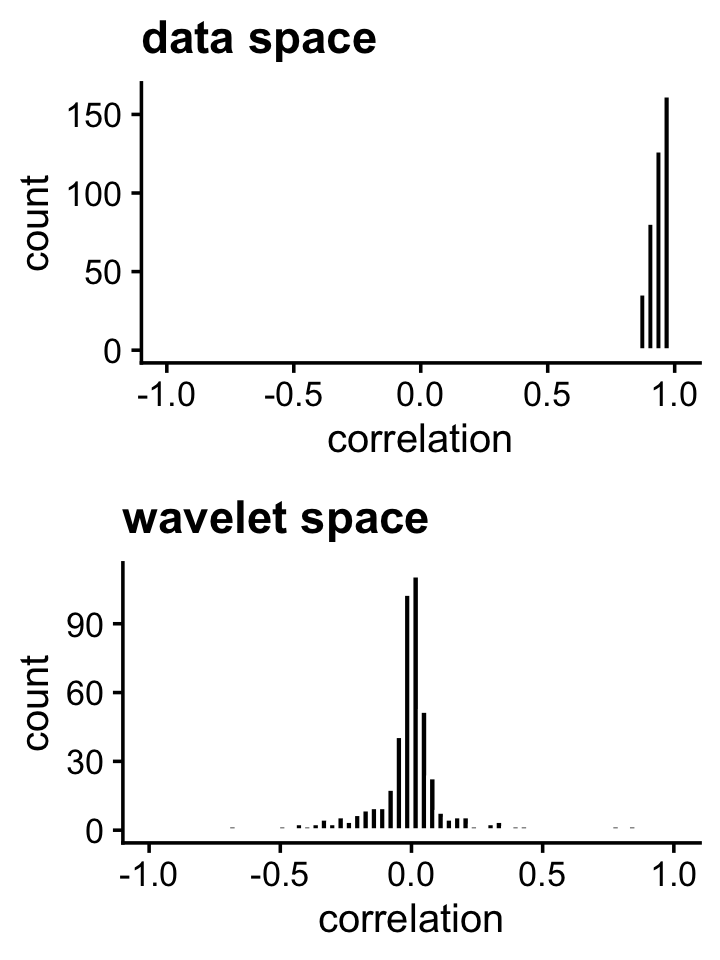
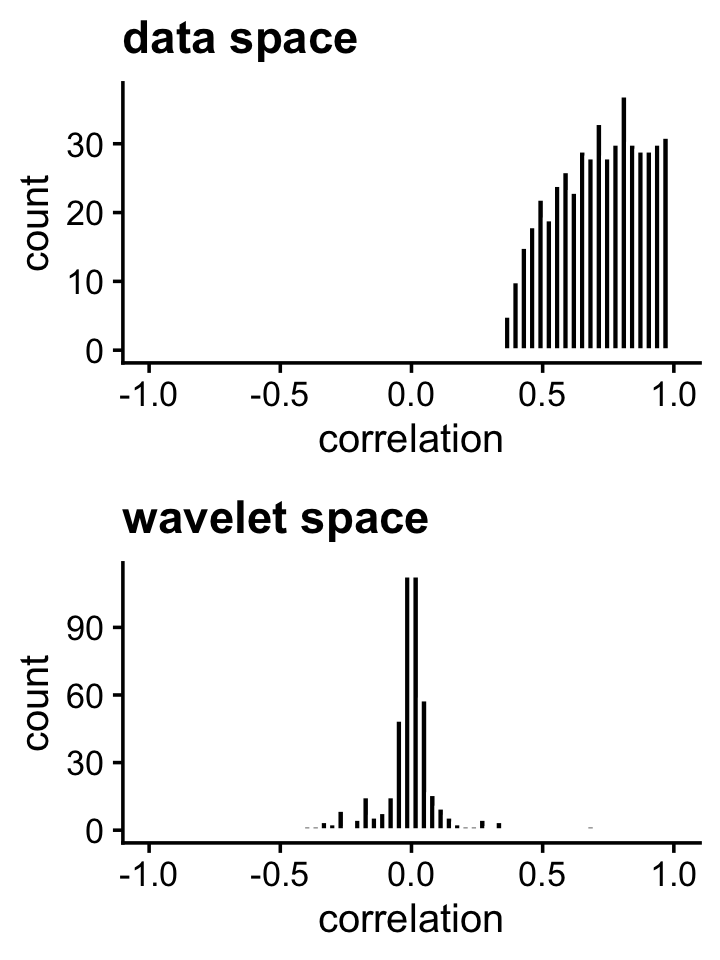
Ran wflow_publish("whitening_demo.Rmd").

diff --git a/docs/whitening_demo.html b/docs/whitening_demo.html
@@ -433,15 +433,15 @@ project makes it easier to run your code on other machines.</p>
 <div class="panel panel-default">
 <div class="panel-heading">
 <p class="panel-title">
-<a data-toggle="collapse" data-parent="#workflowr-checks" href="#strongRepositoryversionstrongahrefhttpsgithubcomstephenslabfsusieexperimentstreea9b12fcb6363a72d1c5d8000aff3ad3dd1d4ff20targetblanka9b12fca">
+<a data-toggle="collapse" data-parent="#workflowr-checks" href="#strongRepositoryversionstrongahrefhttpsgithubcomstephenslabfsusieexperimentstreef65c424568d7dae0c80a3157a26adfd0cf3badcctargetblankf65c424a">
 <span class="glyphicon glyphicon-ok text-success"
 aria-hidden="true"></span> <strong>Repository version:</strong>
-<a href="https://github.com/stephenslab/fsusie-experiments/tree/a9b12fcb6363a72d1c5d8000aff3ad3dd1d4ff20" target="_blank">a9b12fc</a>
+<a href="https://github.com/stephenslab/fsusie-experiments/tree/f65c424568d7dae0c80a3157a26adfd0cf3badcc" target="_blank">f65c424</a>
 </a>
 </p>
 </div>
 <div
[2 lines of base64/hex data omitted]
 class="panel-collapse collapse">
 <div class="panel-body">
 <p>
@@ -451,7 +451,7 @@ reproducibility.
 </p>
 <p>
 The results in this page were generated with repository version
-<a href="https://github.com/stephenslab/fsusie-experiments/tree/a9b12fcb6363a72d1c5d8000aff3ad3dd1d4ff20" target="_blank">a9b12fc</a>.
+<a href="https://github.com/stephenslab/fsusie-experiments/tree/f65c424568d7dae0c80a3157a26adfd0cf3badcc" target="_blank">f65c424</a>.
 See the <em>Past versions</em> tab to see a history of the changes made
 to the R Markdown and HTML files.
 </p>
@@ -532,6 +532,40 @@ Message
 </tr>
 </thead>
 <tbody>
+<tr>
+<td>
+Rmd
+</td>
+<td>
+<a href="https://github.com/stephenslab/fsusie-experiments/blob/f65c424568d7dae0c80a3157a26adfd0cf3badcc/analysis/whitening_demo.Rmd" target="_blank">f65c424</a>
+</td>
+<td>
+Peter Carbonetto
+</td>
+<td>
+2026-02-19
+</td>
+<td>
+wflow_publish("whitening_demo.Rmd")
+</td>
+</tr>
+<tr>
+<td>
+html
+</td>
+<td>
+<a href="https://rawcdn.githack.com/stephenslab/fsusie-experiments/d15ff52490ae5a041fb87235b7b3ee5ef3a1ec48/docs/whitening_demo.html" target="_blank">d15ff52</a>
+</td>
+<td>
+Peter Carbonetto
+</td>
+<td>
+2026-02-19
+</td>
+<td>
+Build site.
+</td>
+</tr>
 <tr>
 <td>
 Rmd
@@ -952,7 +986,7 @@ process (GP) with a Ornstein-Uhlenbeck (O-H) kernel:</p>
 <pre class="r"><code>n &lt;- 2000
 x &lt;- seq(1,32)
 d &lt;- as.matrix(dist(x))
-Sigma &lt;- exp(-d/200)
+Sigma &lt;- exp(-d/30)
 Y &lt;- mvrnorm(n,rep(0,32),Sigma)</code></pre>
 <p>In a GP model, the correlations between the points “decay” with
 distance:</p>
